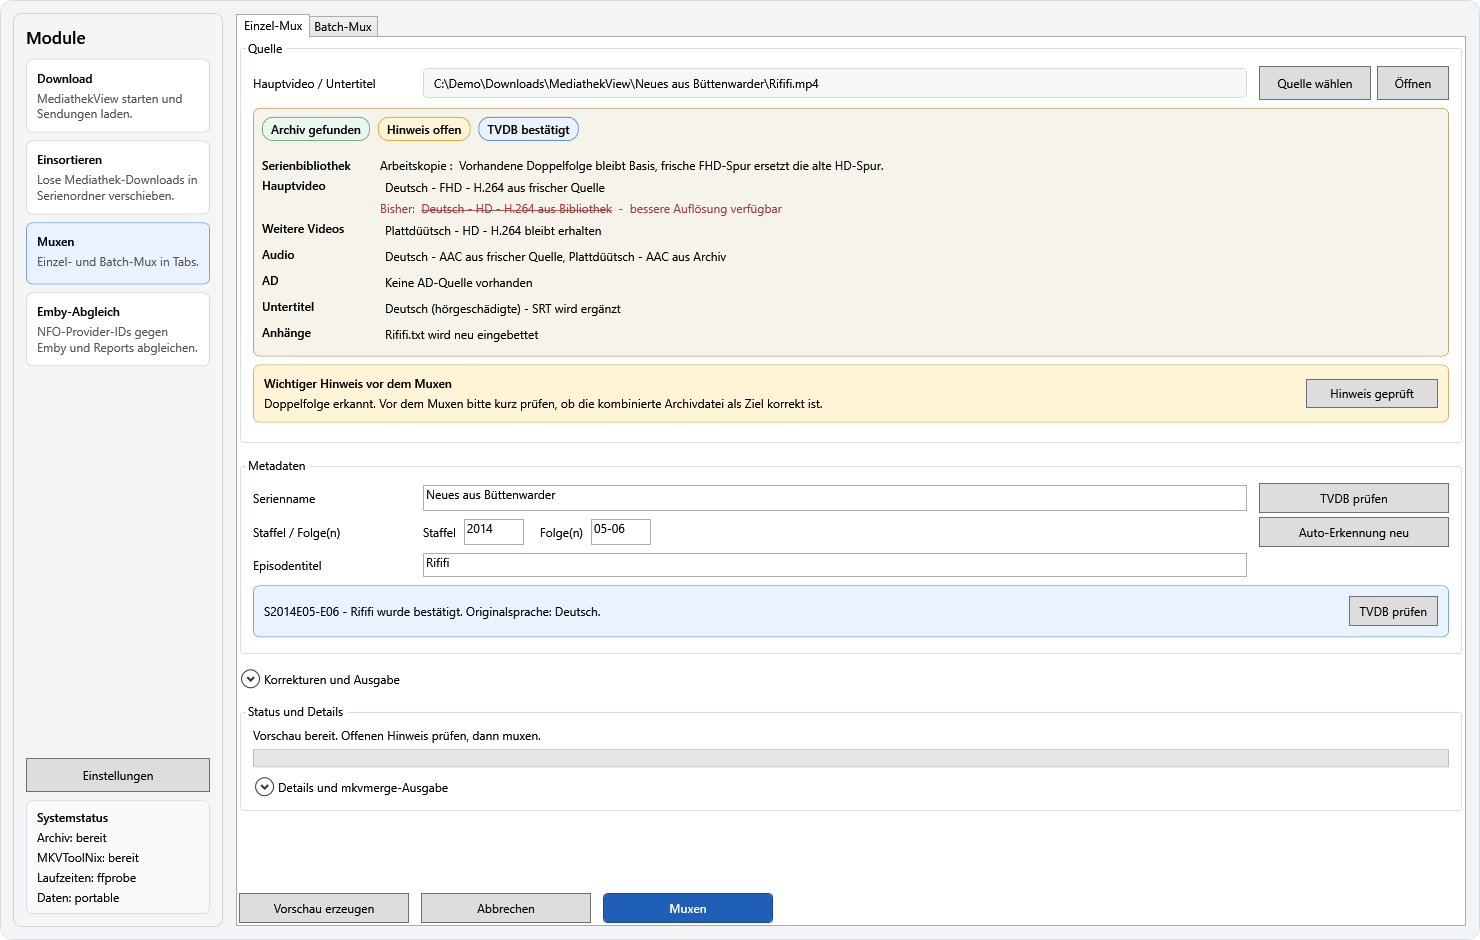
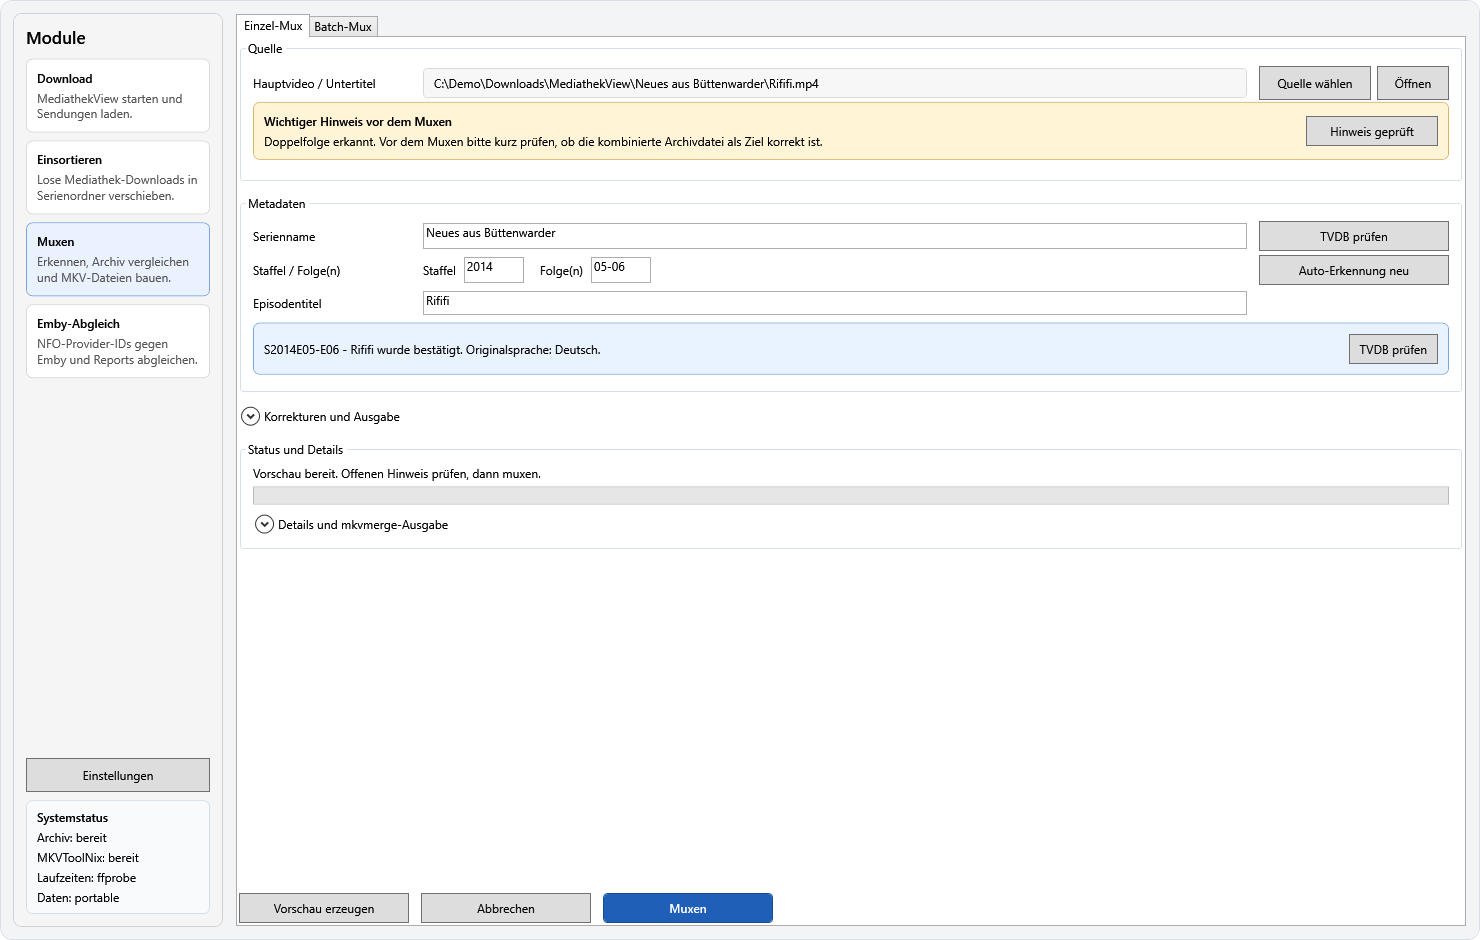
Update README workflows and screenshots

diff --git a/tools/ReadmeScreenshotGenerator/DemoData.cs b/tools/ReadmeScreenshotGenerator/DemoData.cs
@@ -444,7 +444,7 @@ internal static class DemoData
         [
             new DemoChoice("Download", "MediathekView starten und Sendungen laden."),
             new DemoChoice("Einsortieren", "Lose Mediathek-Downloads in Serienordner verschieben."),
-            new DemoChoice("Muxen", "Einzel- und Batch-Mux in Tabs."),
+            new DemoChoice("Muxen", "Erkennen, Archiv vergleichen und MKV-Dateien bauen."),
             new DemoChoice("Emby-Abgleich", "NFO-Provider-IDs gegen Emby und Reports abgleichen.")
         ];
     }

diff --git a/Composition/UiCompositionModule.cs b/Composition/UiCompositionModule.cs
@@ -101,7 +101,7 @@ internal static class UiCompositionModule
                     provider.GetRequiredService<DownloadSortViewModel>()),
                 new ModuleNavigationItem(
                     "Muxen",
-                    "Einzel- und Batch-Mux in einem gemeinsamen Schritt",
+                    "Erkennen, Archiv vergleichen und MKV-Dateien bauen",
                     provider.GetRequiredService<MuxModuleViewModel>()),
                 new ModuleNavigationItem(
                     "Emby-Abgleich",

diff --git a/README.md b/README.md
@@ -30,7 +30,7 @@ Die App ist bewusst auf einen konkreten persönlichen Workflow zugeschnitten. Si
 
 - `Download`: zum Starten der installierten oder portablen MediathekView-Variante als erstem Workflow-Schritt
 - `Einsortieren`: für lose MediathekView-Dateien, die anhand erkannter Serienordner in Unterordner verschoben werden sollen
-- `Muxen`: fasst `Einzel-Mux` und `Batch-Mux` in Tabs zusammen
+- `Muxen`: gemeinsamer Arbeitsbereich für Einzel- und Batch-Mux mit derselben Erkennungs-, Planungs- und Archivvergleichslogik
 - `Emby-Abgleich`: für neu erzeugte MKV-Dateien, deren NFO-Provider-IDs mit Emby abgeglichen werden sollen
 
 ## Screenshots
@@ -83,6 +83,7 @@ Die App ist bewusst portabel gedacht und nicht für eine klassische Installation
    - optional MediathekView-Pfad oder automatische MediathekView-Verwaltung
    - bei Bedarf manuelle Overrides für MKVToolNix oder `ffprobe`
    - optional TVDB-API-Key und PIN
+   - optional IMDb-Abgleichmodus für den Emby-Dialog
    - optional Emby-Server und API-Key
 3. Im Hauptfenster darunter kurz prüfen, ob `Archiv`, `MKVToolNix` und die Laufzeitermittlung als bereit angezeigt werden.
 4. Danach dem Workflow von oben nach unten folgen: `Download`, `Einsortieren`, `Muxen`, `Emby-Abgleich`.
@@ -94,30 +95,50 @@ Die App ist bewusst portabel gedacht und nicht für eine klassische Installation
 3. Sendungen wie gewohnt in MediathekView herunterladen.
 4. Danach im Modul `Einsortieren` mit den erzeugten Download-Dateien weiterarbeiten.
 
-## Typischer Workflow: Muxen, Einzel-Mux-Tab
+## Typischer Workflow: Muxen
+
+Das Modul `Muxen` bündelt zwei Arbeitsweisen, die fachlich möglichst gleich laufen sollen:
+
+- `Einzel-Mux` ist für eine gezielt ausgewählte Episode gedacht, wenn man bewusst Datei für Datei prüfen oder nacharbeiten möchte.
+- `Batch-Mux` verarbeitet einen ganzen Quellordner, zeigt alle erkannten Episoden tabellarisch an und arbeitet danach die ausgewählten Einträge nacheinander ab.
+
+Beide Tabs verwenden dieselbe zentrale Mux-Planung. Das betrifft insbesondere lokale Dateierkennung, TVDB-Abgleich, Archivtreffer, Spurenauswahl, AD-/Untertitel-Logik, TXT-Anhänge, Header-Normalisierung und die Ausgabe der Emby-Metadatenreports. Unterschiede sollen nur dort bestehen, wo sie durch die Bedienung nötig sind: Einzel-Mux arbeitet direkt an einer Episode, Batch-Mux verwaltet mehrere Einträge mit Auswahl, Sortierung und Sammelaktionen.
+
+Die Vorschau zeigt nicht nur den `mkvmerge`-Aufruf, sondern fasst auch zusammen, was mit vorhandenen Archivspuren, neuen Quellen und direkten Header-Anpassungen passieren soll. Wenn eine bestehende Archiv-MKV bereits alle benötigten Inhalte enthält, kann die App statt eines kompletten Remux auch nur relevante Matroska-Headerdaten direkt aktualisieren.
+
+### Einzel-Mux-Tab
 
 1. `Hauptvideo wählen`.
 2. Automatische Erkennung für Quelle, Begleitdateien und Metadaten prüfen.
 3. Falls angezeigt, `Quelle prüfen / freigeben` und/oder `TVDB prüfen`.
-4. Bei Bedarf im Bereich `Korrekturen und Ausgabe` manuell nachbessern.
-5. `Vorschau erzeugen`, um den geplanten `mkvmerge`-Aufruf zu kontrollieren.
-6. `Muxen`, um die MKV tatsächlich zu erstellen.
+4. Bei Bedarf im Bereich `Korrekturen und Ausgabe` manuell nachbessern, etwa Sprache, Originalsprache, AD, Untertitel, Anhänge oder Ausgabepfad.
+5. Mit den `Öffnen`-Aktionen bei Bedarf Hauptvideo, AD, Untertitel, Anhänge oder vorhandene Archivdateien vorab in der Standardanwendung prüfen.
+6. `Vorschau erzeugen`, um den geplanten Mux- oder Header-Edit-Vorgang zu kontrollieren.
+7. `Muxen`, um die MKV zu erstellen oder die vorhandene MKV direkt zu aktualisieren.
 
-## Typischer Workflow: Muxen, Batch-Mux-Tab
+### Batch-Mux-Tab
 
 1. Quellordner wählen.
 2. Scan abwarten und gefundene Episoden prüfen.
-3. Bei Bedarf Einträge auswählen oder abwählen.
+3. Bei Bedarf Einträge auswählen, abwählen, sortieren oder im Detailbereich korrigieren.
 4. Offene Pflichtprüfungen mit `Pflichtchecks starten` oder einzeln im Detailbereich erledigen.
-5. `Batch starten`.
-6. Danach Protokoll, neue Bibliotheksdateien und den optionalen `done`-Ordner prüfen.
+5. Mit den `Öffnen`-Aktionen bei Bedarf alle zugehörigen Videos, AD-Dateien, Untertitel, Anhänge oder Archivdateien eines Eintrags prüfen.
+6. `Batch starten`.
+7. Danach Protokoll, neue Bibliotheksdateien und den optionalen `done`-Ordner prüfen.
 
-Nach jedem Batch-Lauf:
+Nach jedem Mux-Lauf:
 
-- bleibt das Batch-Protokoll in der GUI sichtbar
+- bleibt das Protokoll in der GUI sichtbar
 - wird das vollständige Protokoll zusätzlich unter `.\Logs` gespeichert
-- wird dort auch eine TXT-Liste neu erzeugter Ausgabedateien gespeichert, damit sie anschließend schnell geprüft werden können
+- wird eine TXT-Liste neu erzeugter Ausgabedateien gespeichert, damit sie anschließend schnell geprüft werden können
 - wird zusätzlich ein strukturierter JSON-Metadatenreport `Neu erzeugte Ausgabedateien - ...metadata.json` geschrieben, den das Tool für den Emby-Abgleich importieren kann
+- öffnet die App den Report mit neu erzeugten Dateien automatisch, wenn neue Ausgabedateien entstanden sind
+- räumt die App erfolgreich verarbeitete Quelldateien auf und entfernt im Einzel-Mux auch leere Quellordner
+
+Zusätzlich beim Batch-Lauf:
+
+- bleibt das Batch-Protokoll im Batch-Tab sichtbar
+- können fertig verarbeitete Quellen in einen `done`-Ordner verschoben werden
 
 ## Typischer Workflow: Einsortieren
 
@@ -130,14 +151,18 @@ Nach jedem Batch-Lauf:
 ## Typischer Workflow: Emby-Abgleich
 
 1. Emby-Zugangsdaten zentral über `Einstellungen` hinterlegen.
-2. Den nach einem Batch- oder Einzel-Lauf erzeugten Metadatenreport `Neu erzeugte Ausgabedateien - ...metadata.json` laden.
+2. Einen oder mehrere nach einem Batch- oder Einzel-Lauf erzeugte Metadatenreports `Neu erzeugte Ausgabedateien - ...metadata.json` über `Reports wählen` laden.
 3. Nach `Reports wählen` prüft das Tool automatisch lokale `.nfo`-Dateien und, falls konfiguriert, auch bereits sichtbare Emby-Einträge.
-4. Wenn Emby neue Dateien noch nicht kennt, `Emby scannen` ausführen und den Serverfortschritt abwarten. Danach prüft das Tool die betroffenen Einträge erneut automatisch.
-5. Fehlende oder falsche TVDB-IDs bei Bedarf je Zeile über den `TVDB`-Button korrigieren.
-6. Fehlende oder falsche IMDB-IDs bei Bedarf je Zeile über den `IMDb`-Button ergänzen oder korrigieren.
-7. `Änderungen in Emby schreiben`, um geänderte TVDB-/IMDB-IDs in die `.nfo` zurückzuschreiben und nur betroffene Emby-Einträge gezielt zu refreshen.
+4. Wenn Emby neue Dateien noch nicht kennt, `Emby scannen` ausführen und den Serverfortschritt abwarten. Der Scan wird bevorzugt auf die zur Archivwurzel passende Serienbibliothek begrenzt. Danach prüft das Tool die betroffenen Einträge erneut automatisch.
+5. Offene Provider-ID-Prüfungen mit `Pflichtchecks starten` abarbeiten. TVDB wird nur bei widersprüchlichen Quellen aktiv geprüft; IMDb wird für jede NFO-fähige Episode bewusst bestätigt, korrigiert oder als nicht vorhanden markiert.
+6. Einzelne Zeilen können weiterhin direkt über die `TVDB`- und `IMDb`-Buttons nachbearbeitet werden. Die ID-Zellen sind zusätzlich editierbar, wenn eine ID direkt bekannt ist.
+7. `NFO speichern + Emby aktualisieren`, um geänderte TVDB-/IMDb-IDs in die `.nfo` zurückzuschreiben und nur betroffene Emby-Einträge gezielt zu refreshen.
 
-Die erste Emby-Ausbaustufe erzeugt bewusst keine neue NFO aus dem Nichts. Emby soll die Episoden-NFO zunächst selbst anlegen; das Tool ergänzt danach nur die Provider-IDs.
+Die erste Emby-Ausbaustufe erzeugt bewusst keine neue NFO aus dem Nichts. Emby soll die Episoden-NFO zunächst selbst anlegen; das Tool ergänzt danach nur die Provider-IDs. Dateien in Emby-Asset-Ordnern wie `trailers` oder `backdrops` bekommen normalerweise keine Episoden-NFO; solche Einträge werden erkannt und beim Provider-ID-Sync übersprungen.
+
+Nach einem erfolgreichen Emby-Abgleich markiert die App erledigte Reporteinträge in der JSON. Sobald alle relevanten Einträge eines Reports abgearbeitet sind, wird der Report in einen `done`-Unterordner verschoben.
+
+Für IMDb nutzt der Dialog je nach Einstellung bevorzugt `imdbapi.dev`, ausschließlich `imdbapi.dev` oder ausschließlich die Browserhilfe. Im Automatikmodus fällt der Dialog nur dann auf die Browserhilfe zurück, wenn der freie API-Dienst insgesamt nicht erreichbar ist.
 
 ## Unterstützte Dateien
 
@@ -147,6 +172,7 @@ Im aktuellen Serien-Modul werden verwendet:
 - optionale Audiodeskription: `.mp4`
 - optionale Untertitel: `.srt`, `.ass`, `.vtt`
 - optionale TXT-Begleitdatei: `.txt`
+- vorhandene Archivdateien zum Vergleich und zur Wiederverwendung: `.mkv`
 
 `.ttml` wird nicht gemuxt, aber als Begleitdatei für Cleanup und Aufräumen berücksichtigt.
 
@@ -164,6 +190,14 @@ Dieser Abschnitt beschreibt bewusst die wichtigsten fachlichen Entscheidungen de
 - Innerhalb derselben Sprache steht `H.264` vor `H.265`.
 - Wenn zu einer Sprache sowohl `H.264` als auch `H.265` vorhanden sind, können beide erhalten bleiben. `H.265` ersetzt also nicht pauschal `H.264`.
 - Im Archivabgleich kann eine vorhandene Videospur desselben Slots durch eine neue ersetzt werden, wenn die neue fachlich besser ist, insbesondere bei höherer Auflösung.
+
+### Archivabgleich und Sonderfolgen
+
+- Wenn das geplante Ziel bereits im Archiv existiert, liest die App die vorhandene MKV ein und entscheidet, ob Inhalte wiederverwendet, ersetzt, ergänzt oder nur Headerdaten korrigiert werden müssen.
+- Vorhandene Archivspuren werden nicht blind verworfen. Besonders normale Audiospuren und bereits vorhandene AD-/Untertitelspuren werden weiterverwendet, wenn sie den fachlichen Slot bereits abdecken.
+- Bei nicht eindeutig TVDB-zuordenbaren Sonder- oder Bonusfolgen sucht die App zusätzlich in typischen Sonderordnern der Serie, etwa `Specials`, `Season 0`, `Trailers` und `Backdrops`.
+- Wenn dort eine passende Archivdatei gefunden wird, kann sie als Ziel und Metadatenquelle dienen. Das spart manuelle Nacharbeit bei Bonusmaterial ohne sauberen TVDB- oder IMDb-Eintrag.
+- Hinweise wie Mehrfachfolge, Archivtreffer oder ungewöhnliche Quellen müssen vor dem Muxen bewusst geprüft werden, wenn sie als Pflichtprüfung angezeigt werden.
 
 ### Audio und Audiodeskription
 
@@ -194,6 +228,13 @@ Dieser Abschnitt beschreibt bewusst die wichtigsten fachlichen Entscheidungen de
 - Ein eingebetteter TXT-Anhang wird nur dann automatisch entfernt, wenn seine Zuordnung zu einer ersetzten alten Videospur wirklich eindeutig ist.
 - Wenn die Zuordnung nicht sicher ist, bleibt der TXT-Anhang erhalten.
 - Zusätzlich bleibt der alte explizit sichere Fallback aktiv: `genau eine vorhandene Videospur + genau eine TXT`, wenn diese Videospur ersetzt wird.
+
+### Direkte Header-Anpassungen
+
+- Wenn am Ziel bereits alle benötigten Inhalte vorhanden sind, kann die App statt eines Remux nur die Matroska-Header aktualisieren.
+- Verglichen und bei Bedarf angepasst werden Tracknamen, Sprachen, Standard-Flags, Originalsprache, Forced-Flags, Accessibility-Flags und der MKV-Titel.
+- Die Vorschau zeigt nur relevante Änderungen an, damit sichtbar bleibt, was vorher falsch war und was geändert wird.
+- Normale Hauptspuren, also nicht AD und nicht hörgeschädigte Untertitel, sollen als Standard geeignet markiert sein. Spezialspuren werden bewusst getrennt behandelt.
 
 ### Sender-Priorität und manuelle Prüfung
 
